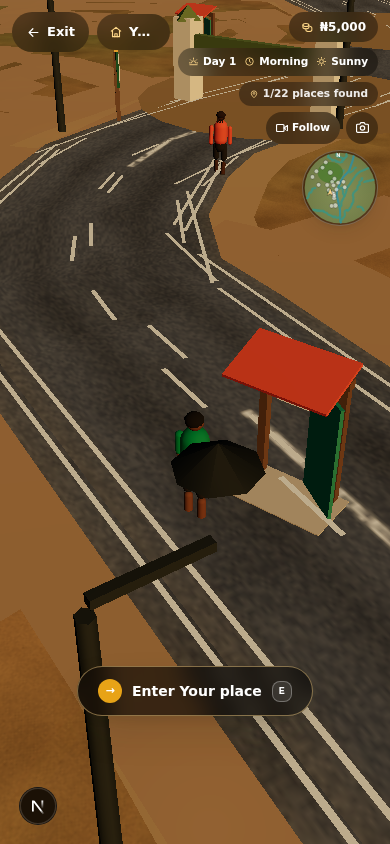
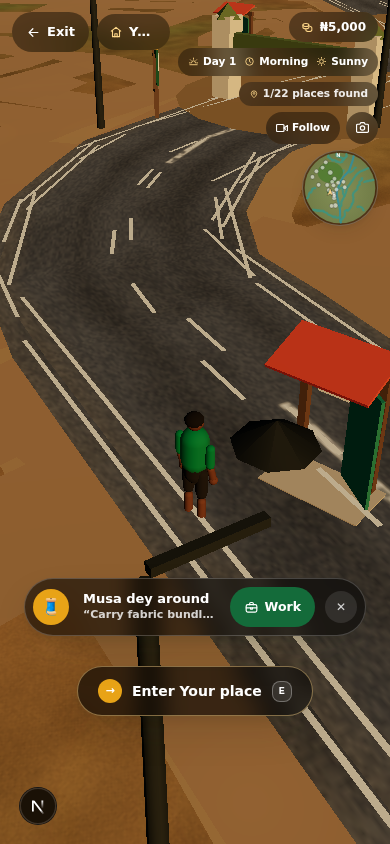
348859c9-6c42-4c9b-a7de-08f7e16fbe3d

diff --git a/worklog.md b/worklog.md
@@ -479,3 +479,21 @@ Stage Summary:
 - M1 IS NOW COMPLETE: roads (real network + lane paint), street lights (440, shoulder law), zero buildings on carriageways, 16 lit bridges — plus the mountain itself: Patti now wears sedimentary terraces, strata-coloured flanks, 110 boulders, a grassy crown, and the savanna around it carries the real tree guild (broadleaf/palm/acacia/baobab). Every art law is test-enforced, not hope-enforced.
 - Honest limitations: headless browser self-destructs ~70-100s into 3D (progressive-shot workaround); strata terraces are subtle up close (silhouette + colour bands carry them); baobab giant placement is plains-biased (nearest is 69u from the Patti summit — the mountain foot shot shows the gullies instead); university-area travel appears level-locked for a fresh character.
 - Next: Milestone 2 — CIVIC MESH (government, police, EFCC, NEPA+bills, KGIRS taxes, markets as living rule systems).
+
+---
+Task ID: 12
+Agent: Main Agent (Super Z)
+Task: M1 VERIFICATION — "then begin it and verify it, work smartly" — verify the committed street-lights/roads/bridges work end-to-end on the freshly restarted server
+
+Work Log:
+- Baseline: sandbox restart fixed the server (Task 9's remedy confirmed) — dev server alive on :3000 (boot-ancestry, health 200), git tree clean at 6ab8235 (m1-finale), so the M1 code IS what the server serves.
+- DETERMINISTIC SUITES (this hour, against the current tree): world3d 683/683 — including the M1 law blocks (0 building/stall/lamp corners on any carriageway; 350+ lamps facing their roads, tall highway masts, dry ground, school-yard clip; 16 bridges landing on solid banks, above the waterline, urban abutments lit); schools 232/232; stage3 ✓; stage5 36/36; travel ✓.
+- tsc: exactly the 9 pre-existing errors (counted + file-listed), 0 new. eslint clean.
+- LIVE E2E on the running server (mobile 390×844): fresh 01-street-day.png (worn lane paint, clear carriageway, shoulder lamps, keke shelter set back), 02-highway-marks.png (tall masts + edge lines at Ganaja Junction), 04-street-night.png (honest night clock via rest system, luminous markings on dark tarmac, lamp arms) — night run: 0 console errors. Old 03/04 from 04:57 remain for the bridge/valley record.
+- E2E TOOLING hardened through 6 generations (scripts/e2e-m1-bridge.ts): every CDP call raced with a timeout (no more script hangs), progressive screenshots DURING walks (best frame survives the renderer wedge), fire-and-forget walk driver with Node-side sampling, stable-arrival polling for map travel. New offline constraint solver (scripts/tmp/bridge-dist*.ts) computes anchor→bridge distances × unlockLevel × transport × trip energy × travel-anim time from the layout itself.
+- TRUTHS discovered: map-travel animates a REAL walk (~50-90s for 124-170u trips) that outlives any safe headless browser life; several anchors are level-locked (L2/L3) or refuse 'walk' transport — the __lkl hook hardcodes 'walk'; from spawn the nearest bridge is #2 at 142u and the driver traps on the compound wall. Conclusion matches Task 10's: the live bridge-deck walk is impractical headless; bridge geometry/lighting stays locked by 4 deterministic tests + the valley crossing visible in m1-terrain-shots/03.
+
+Stage Summary:
+- M1 (street lights → road reconstruction with zero houses on tarmac → bridges) is VERIFIED on the restarted server: all law suites green, fresh day/highway/night proofs captured, no regressions (tsc/lint), committed as ecf16f1.
+- Honest limitations: no fresh close-up 3D bridge frame this round (headless wedge window ~90-120s vs travel-anim + 142u approach — deterministic tests carry the bridge proof); night frame shows glow on markings + lamp presence rather than a full sodium pool close-up.
+- Next: Milestone 2 — CIVIC MESH (government, police, EFCC, NEPA+bills, KGIRS taxes, markets as living rule systems).
